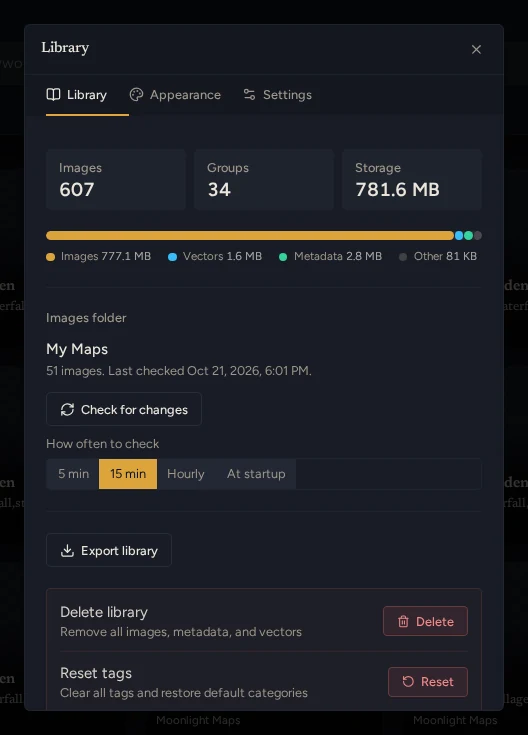
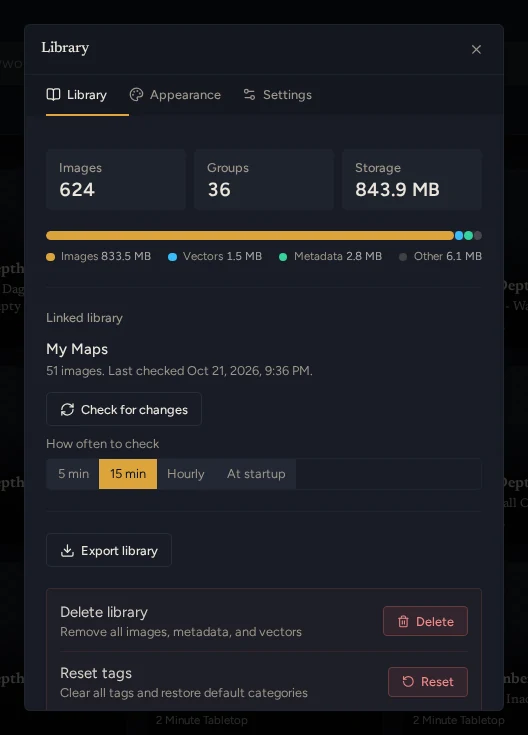
docs(import): reviewing an import in the editor, with a multi-group screenshot
Importing gets a Reviewing an Import section: what Review in editor opens and what
can be fixed there. Groups gets the same screenshot and renaming images. The docs
screenshots are regenerated, which also brings the Linked library labels in.

diff --git a/e2e/screenshots/docs.spec.ts b/e2e/screenshots/docs.spec.ts
@@ -204,10 +204,25 @@ test("import: dialog, progress and report", async ({ page }) => {
   await settle(page);
   await shot(dialog, "import-report");
 
-  // Leave the library as it was, so the run can be repeated
-  await dialog.getByRole("button", { name: "Undo import" }).click();
+  // Every group the import made, in the editor's group list
+  await dialog.getByRole("button", { name: "Review in editor" }).click();
+  const editor = page.getByTestId("edit-group-dialog");
+  await expect(editor).toBeVisible();
+  await settle(page);
+  await shot(editor, "import-review");
+  await page.keyboard.press("Escape");
+  await expect(editor).toBeHidden();
+
+  // Leave the library as it was, so the run can be repeated. The report closed with the
+  // editor, so undo from Activity.
+  await page.getByTestId("activity-dock-pill").click();
   await page
-    .getByRole("alertdialog", { name: "Undo this import?" })
+    .getByTestId("import-job-card")
+    .filter({ hasText: "2 Minute Tabletop" })
+    .getByRole("button", { name: "Undo import" })
+    .click();
+  await page
+    .getByRole("dialog", { name: "Undo this import?" })
     .getByRole("button", { name: "Delete imported images" })
     .click();
   await expect(page.getByText(/Import undone/)).toBeVisible({

diff --git a/docs/guide/importing.md b/docs/guide/importing.md
@@ -44,7 +44,7 @@ Scene Atlas sorts files into [groups](/guide/groups) as the import starts:
 - **Grid sizes and tags** are read from folder and file names where possible.
 - A group whose name and author match an existing one is added to it.
 
-There's no review step before the import starts. Fix anything afterwards with **Review in editor** in the report, or in the [group editor](/guide/groups#editing-groups).
+There's no review step before the import starts. Check and correct the result in the editor instead: see [Reviewing an Import](#reviewing-an-import).
 
 ## Following an Import
 
@@ -86,7 +86,7 @@ Open the report from the import's notification or from Activity.
 
 It has up to four sections:
 
-- **Groups**: every group the import created or added to. Click one to open it, or **Review in editor** to go through them all.
+- **Groups**: every group the import created or added to. Click one to open it, or [**Review in editor**](#reviewing-an-import) to go through them all.
 - **Problems**: files that couldn't be imported, by reason. **Retry** tries them again.
 - **Already in library**: duplicates that were skipped.
 - **Skipped**: unsupported files, files never uploaded, and images [Auto skipped](#images-auto-skipped).
@@ -101,6 +101,25 @@ A file is skipped only when it is certainly already in your library:
 - **Same picture**: the same image saved differently, for example re-saved with different compression.
 
 Variants that only look alike, such as gridded and gridless or day and night, are always imported. If a match is wrong, or you want a second copy, choose **Import as new copies** under *Already in library*.
+
+## Reviewing an Import
+
+**Review in editor** in the report opens every group the import made in the [group editor](/guide/groups#the-group-editor), with the groups listed on the left. While an import is still running, **Review N groups** in the import dialog does the same for the groups finished so far; **Add them** at the top of the editor brings in groups that finish later.
+
+![Reviewing an import: the groups it made listed on the left, and their images on the right, each with its name, subgroup, type, grid and tags](/screenshots/import-review.webp)
+
+*Map thumbnails by [2-Minute Tabletop](https://2minutetabletop.com), [CC BY-NC 4.0](https://creativecommons.org/licenses/by-nc/4.0/).*
+
+The images are already in your library, so this is where you fix what the import guessed wrong. You can:
+
+- rename a group or change its author;
+- rename an image by clicking its name;
+- drag images onto another group, or select some and use **Move selected to new group** to split them off;
+- select several groups and **Merge Selected**, or **Merge All**;
+- set the type, grid, subgroup or tags of many images at once;
+- **Include** images [Auto skipped](#images-auto-skipped), shown with the group they would have joined.
+
+See [The Group Editor](/guide/groups#the-group-editor) for everything it does.
 
 ## Stored Format
 

diff --git a/docs/guide/groups.md b/docs/guide/groups.md
@@ -22,7 +22,7 @@ From an image tile's **…** menu or the viewer:
 
 ### The Group Editor
 
-Open it with **Edit** on a group card, **Edit group** in the viewer, or **Review in editor** from an import report. When you open several groups, the list on the left holds them and the right side shows the selected group's images.
+Open it with **Edit** on a group card, **Edit group** in the viewer, or **Review in editor** from an import report (see [Reviewing an Import](/guide/importing#reviewing-an-import)). When you open several groups, the list on the left holds them and the right side shows the selected group's images.
 
 ![The group editor for one group: its author and name, and each variant with its subgroup, type, grid and tags](/screenshots/group-editor.webp)
 
@@ -31,6 +31,7 @@ Open it with **Edit** on a group card, **Edit group** in the viewer, or **Review
 In the editor you can:
 
 - rename the group and change its author;
+- rename an image by clicking its name;
 - **drag images** onto another group in the list, or onto a subgroup;
 - select images and use **Move selected to new group** to split them off;
 - select images and set their type, grid, subgroup or tags all at once;
@@ -38,6 +39,10 @@ In the editor you can:
 - filter the images by name, type, grid or media to find the ones to change.
 
 In the group list, `Ctrl`/`Cmd`-click selects several groups and `Shift`-click a range. With several selected you can **Merge Selected** into one, or delete them. **Merge All** combines every group in the list.
+
+![The group editor with several groups: the list on the left, and the images of all of them on the right](/screenshots/import-review.webp)
+
+*Map thumbnails by [2-Minute Tabletop](https://2minutetabletop.com), [CC BY-NC 4.0](https://creativecommons.org/licenses/by-nc/4.0/).*
 
 ### Merging
 
